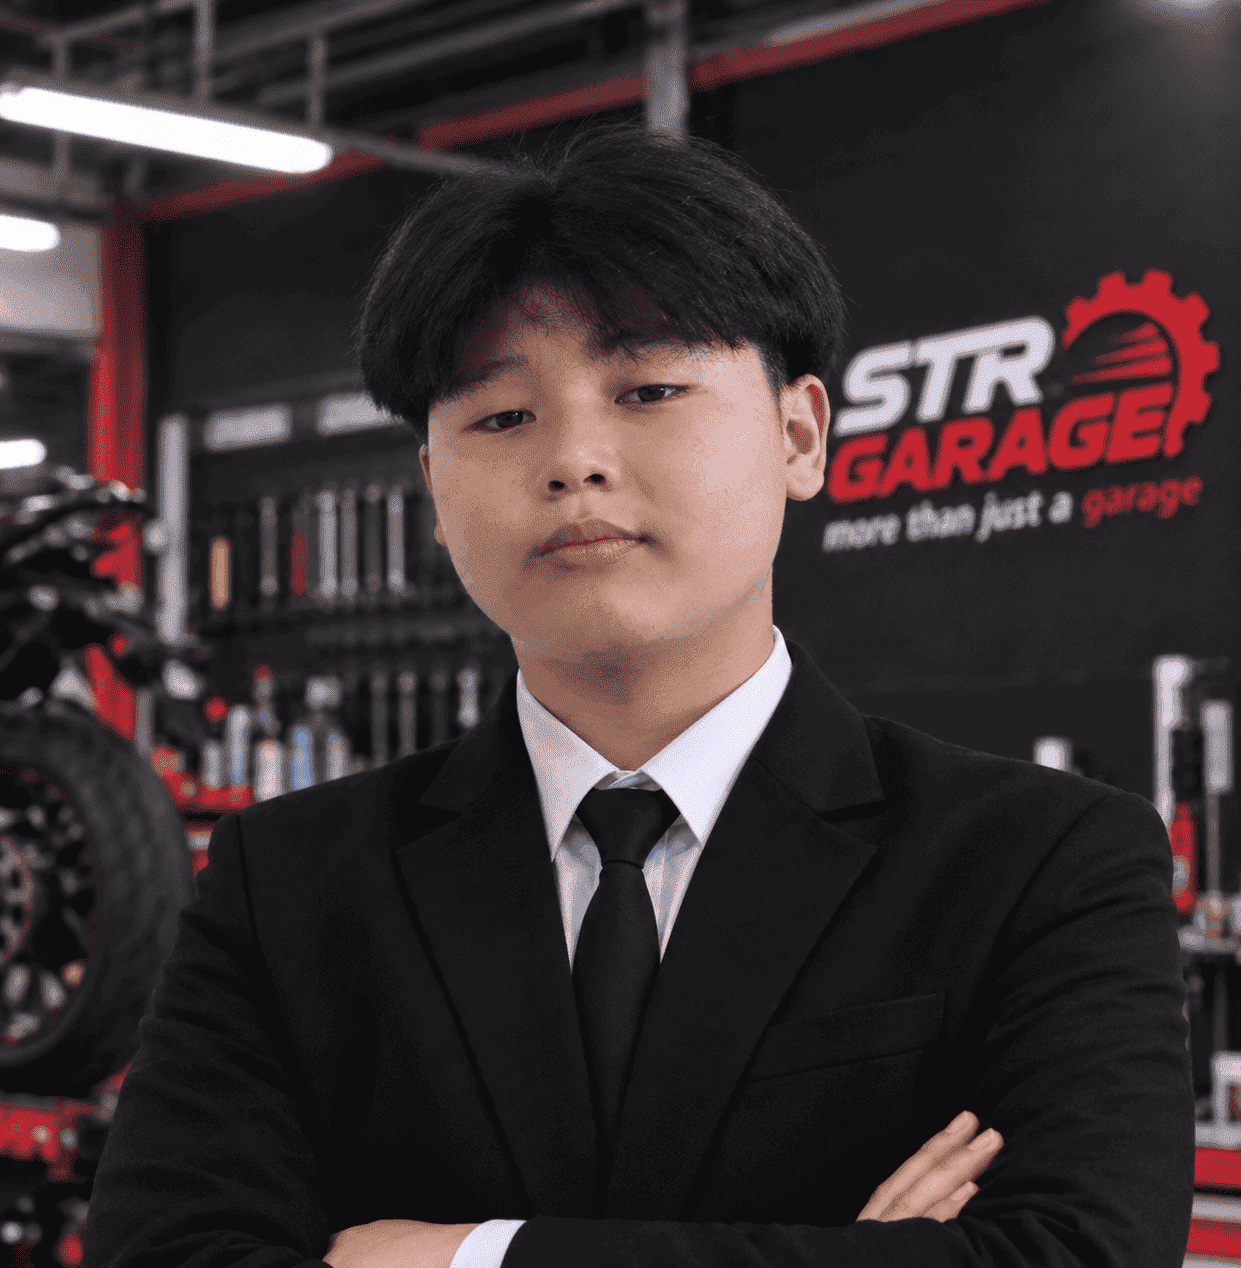
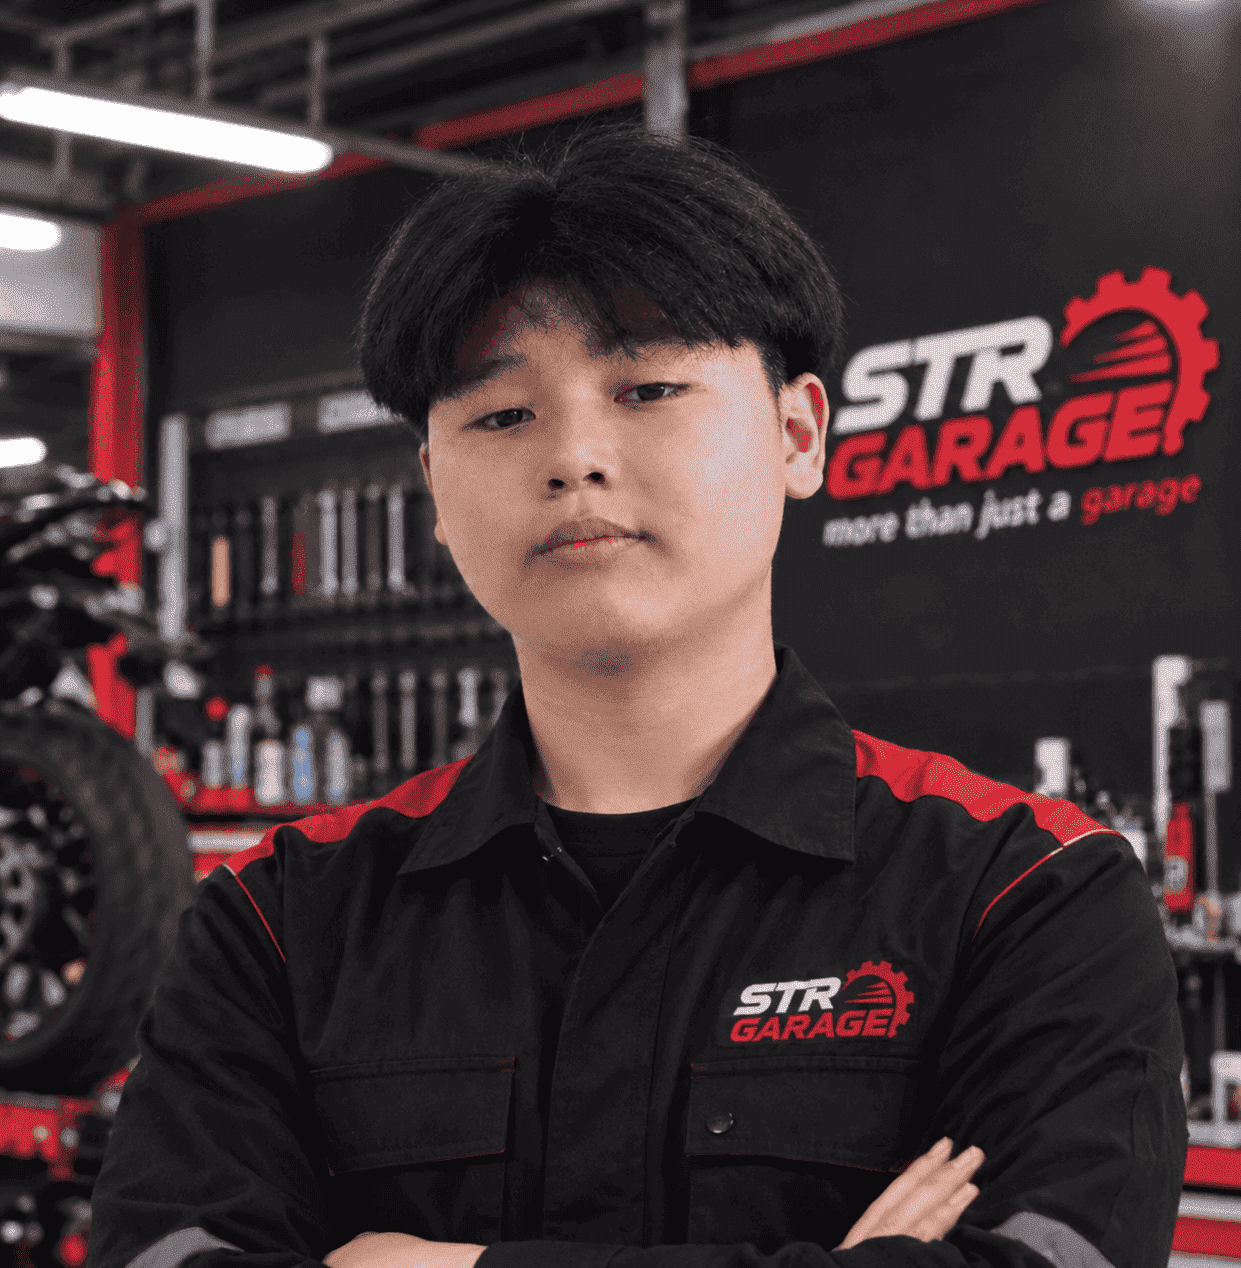
fix: established and css in about page and images

diff --git a/pages/about.html b/pages/about.html
@@ -15,13 +15,14 @@
     <body>
         <header>
             <div class="header-container">
-                <a href="../index.html"><img
-                    src="../assets/images/logo/logo.png"
-                    alt="STR Garage"
-                    class="logo"
+                <a href="../index.html"
+                    ><img
+                        src="../assets/images/logo/logo.png"
+                        alt="STR Garage"
+                        class="logo"
                 /></a>
                 <nav class="navbar">
-                    <a href="../index.html" >Home</a>
+                    <a href="../index.html">Home</a>
                     <a class="active" href="about.html">About Us</a>
                     <a href="gallery.html">Gallery</a>
                     <a href="pricing.html">Price List</a>
@@ -103,7 +104,7 @@
                         <h3>WHERE IT ALL BEGAN</h3>
 
                         <p>
-                            STR Garage was established on 18-2010 with a
+                            STR Garage was established on 18-11-2010 with a
                             vision to provide dependable motorcycle maintenance
                             and repair services.
                         </p>
@@ -276,10 +277,6 @@
                         </p>
                     </div>
                 </div>
-
-                <div class="achievement-btn">
-                    <a href="gallery.html" class="red-button">VIEW OUR GALLERY</a>
-                </div>
             </section>
 
             <section class="vision section-padding">
@@ -342,7 +339,7 @@
             </section>
         </main>
 
-         <footer>
+        <footer>
             <div class="footer-container">
                 <div class="footer-brand">
                     <a href="../index.html"

diff --git a/styles/about.css b/styles/about.css
@@ -15,10 +15,17 @@ img {
     display: inline-block;
     margin-bottom: 15px;
 }
-h1, h2, h3 {
-    font-family: 'Barlow Condensed', sans-serif;
-    color: red;
+h1,
+h2,
+h3 {
+    font-family: "Barlow Condensed", sans-serif;
+    color: rgb(255, 255, 255);
 }
+
+.overview-content h2 {
+    color: #1b1b1b;
+}
+
 .section-heading {
     text-align: center;
     margin-bottom: 55px;
@@ -59,11 +66,7 @@ h1, h2, h3 {
 .about-hero {
     height: 480px;
     background:
-        linear-gradient(
-            90deg,
-            rgba(0, 0, 0, 0.9),
-            rgba(0, 0, 0, 0.35)
-        ),
+        linear-gradient(90deg, rgba(0, 0, 0, 0.9), rgba(0, 0, 0, 0.35)),
         url("../assets/images/about/garage.jpg");
     background-size: cover;
     background-position: center;
@@ -232,7 +235,7 @@ h1, h2, h3 {
     margin-bottom: 15px;
 }
 .ceo-signature {
-    font-family: 'Barlow Condensed', sans-serif;
+    font-family: "Barlow Condensed", sans-serif;
     font-size: 28px;
     font-style: italic;
     color: #e63939;
@@ -317,7 +320,7 @@ h1, h2, h3 {
     background: #1b1b1b;
     border: 1px solid #e63939;
     color: #e63939;
-    font-family: 'Barlow Condensed', sans-serif;
+    font-family: "Barlow Condensed", sans-serif;
     font-size: 30px;
     font-weight: 700;
     position: relative;
@@ -421,10 +424,7 @@ h1, h2, h3 {
     padding: 100px 9%;
     text-align: center;
     background:
-        linear-gradient(
-            rgba(0, 0, 0, 0.85),
-            rgba(0, 0, 0, 0.85)
-        ),
+        linear-gradient(rgba(0, 0, 0, 0.85), rgba(0, 0, 0, 0.85)),
         url("../assets/images/about/garage.jpg");
     background-position: center;
     background-size: cover;
